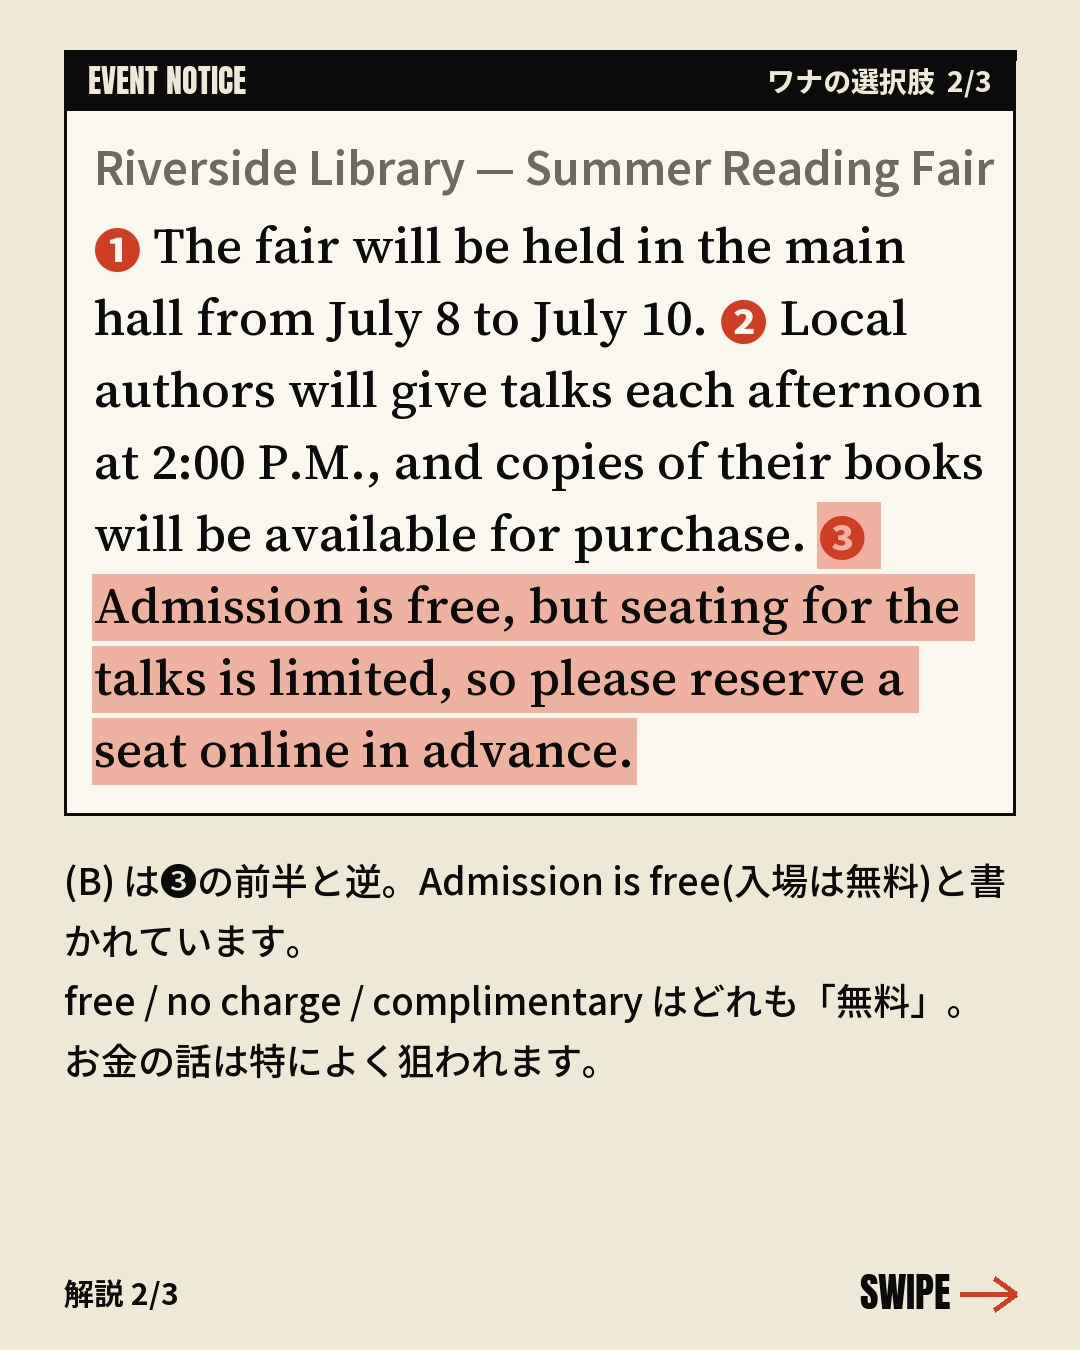
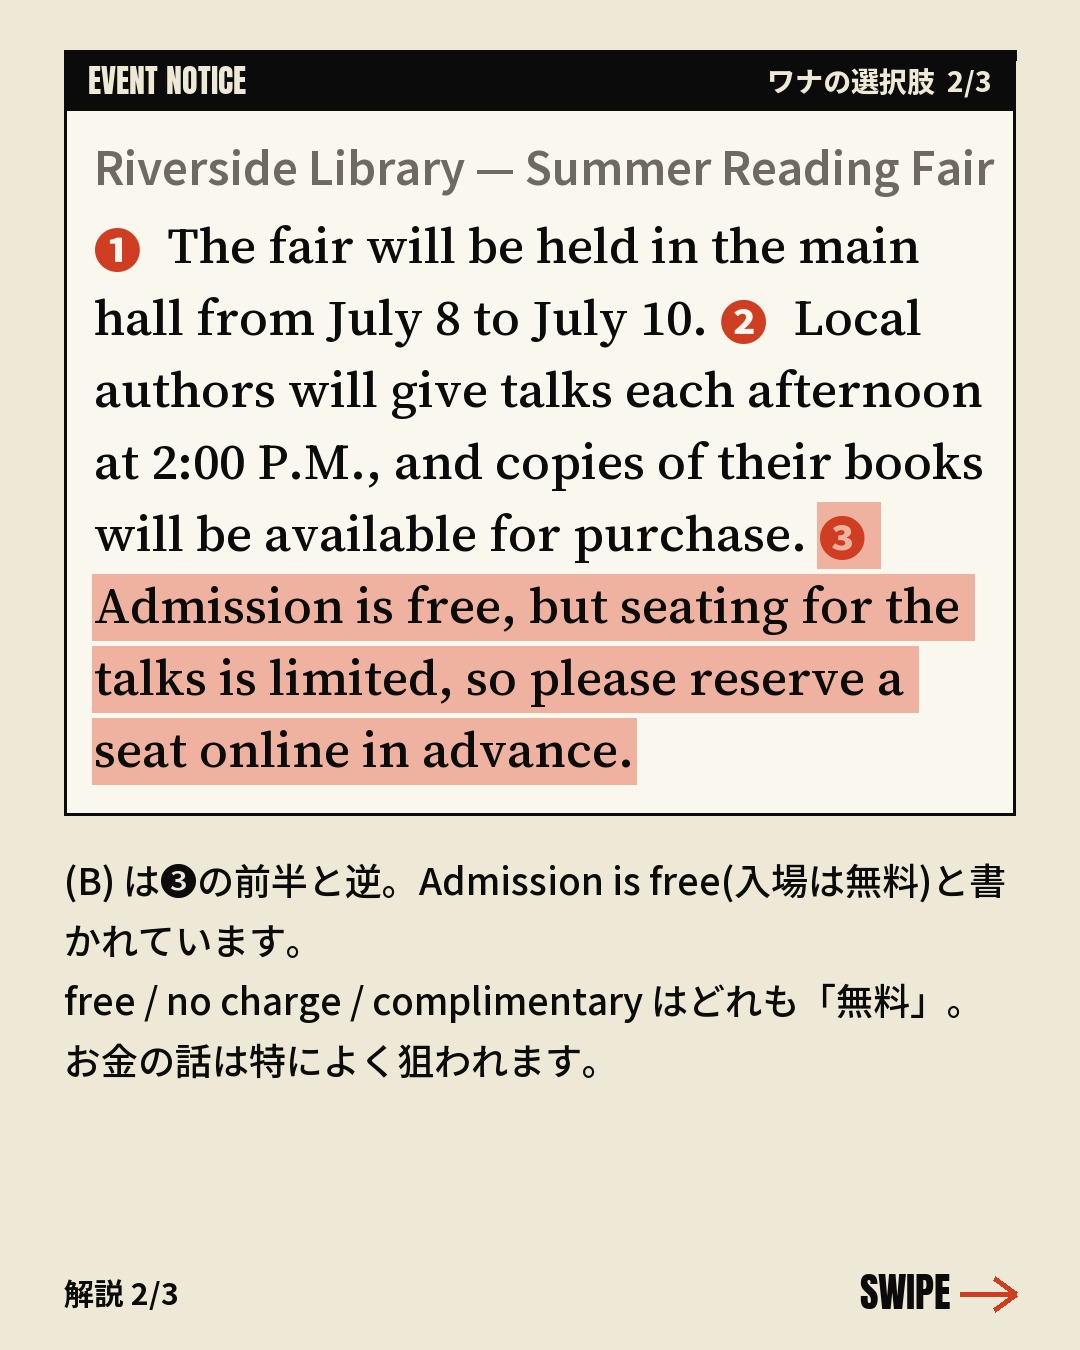
TOEIC読解: 英文を最大56pxに・番号の後ろに空き(No.10〜15差し替え)/YouTube穴埋めのタイトルに番号を入れて重複に見えないように

Changed region(s): [[0.1528, 0.1556, 0.8556, 0.2489]]

diff --git a/toeic_set.py b/toeic_set.py
@@ -21,7 +21,7 @@ def fit(P, top, room, hi, lo=30, hl=()):
         if passage(Image.new("RGBA", (W, H)), 64, top, W - 128, P, size, hl) <= room: return size
     return lo
 NUM = "❶❷❸❹❺"
-NUM_GAP = 0  # 番号の後ろの追加の空き(英検は広め)
+NUM_GAP = 14  # 番号の後ろの空き
 
 def wrap_jp(d, text, f, width):
     """日本語は1文字ずつ、英単語(と記号の続き)は途中で切らずに折り返す"""
@@ -99,7 +99,7 @@ def build(Q, out):
     rooms = [BOTTOM - TOP - 40 - len(qlines) * 58 - 26 - 2 * 92,
              BOTTOM - TOP - 32 - len(jl) * 50 - 34 - len(qj) * 48]
     rooms += [BOTTOM - TOP - 36 - (116 if k == 0 else 0) - len(el) * 60 for k, el in enumerate(els)]
-    size = min(fit(Q["passage"], TOP, r, 52, 32) for i, r in enumerate(rooms) if i != 1)  # 英文はどのページでも同じ大きさ(和訳ページは日本語側を調整)
+    size = min(fit(Q["passage"], TOP, r, 56, 32) for i, r in enumerate(rooms) if i != 1)  # 英文はどのページでも同じ大きさ(和訳ページは日本語側を調整)
     hP = passage(Image.new("RGBA", (W, H)), PX, TOP, PW, Q["passage"], size)
     def ja_fit():
         for withq, lo in ((True, 29), (False, 27)):  # 和訳は小さくしすぎない。入らなければ設問の訳は省く

diff --git a/yt_backlog.py b/yt_backlog.py
@@ -44,7 +44,8 @@ def run():
     q = {x["no"]: x for x in json.loads((ROOT / "quizzes.json").read_text())}[nxt]
     cap = tiktok_eng.caption_for(q)  # 昔の回のキャプションがない分も作る(答えつき)
     site = os.environ.get("SITE_URL", "https://eng-navi.github.io").rstrip("/")
-    pid = youtube_buffer.send(f"{site}/videos/q{nxt}.mp4", cap)
+    kind = q.get("category") or "英語"
+    pid = youtube_buffer.send(f"{site}/videos/q{nxt}.mp4", cap, title=f"{kind}クイズ No.{nxt}|①と②、どっち?🧠")  # 同じタイトルが並ばないように番号を入れる
     if not pid:
         return False
     st["last"] = nxt
